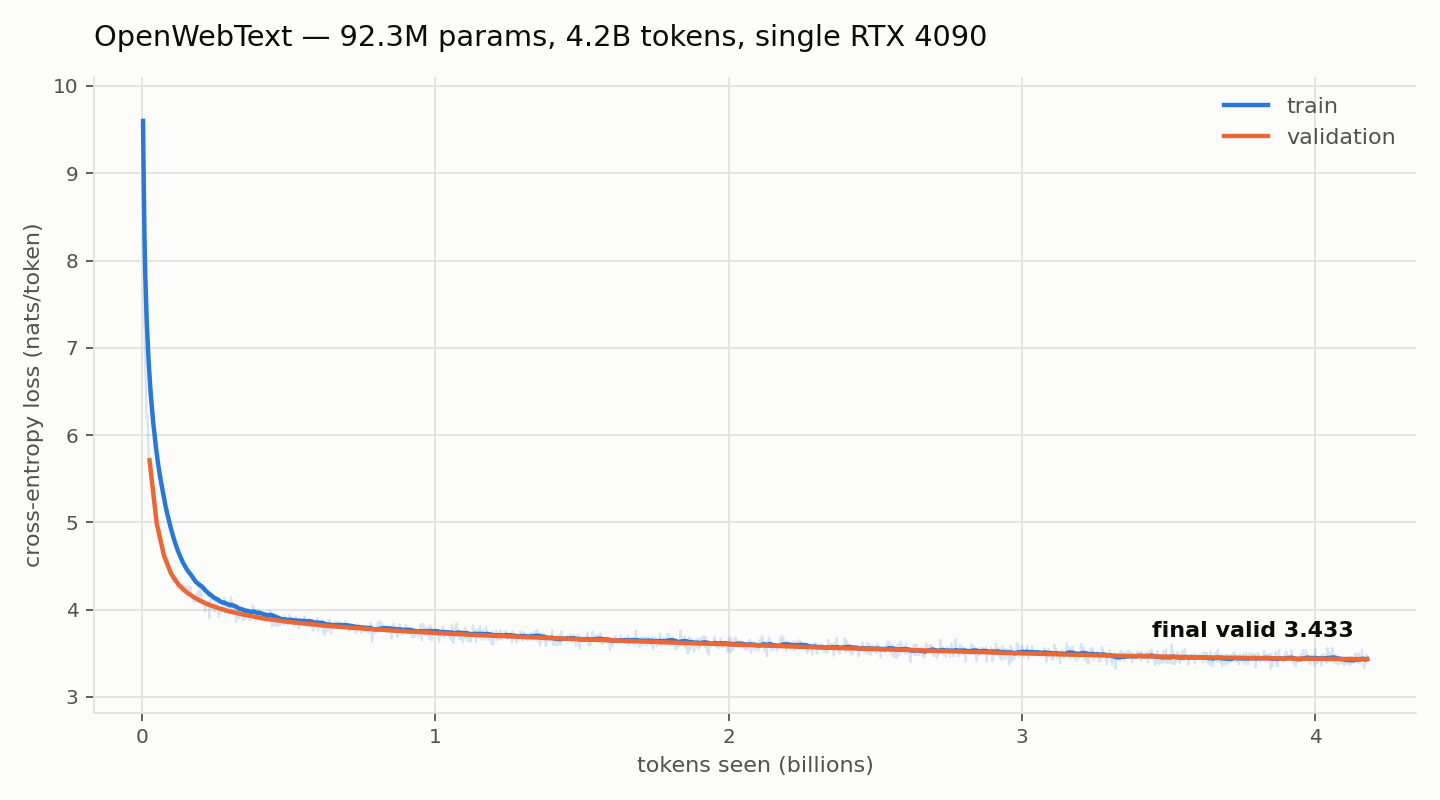
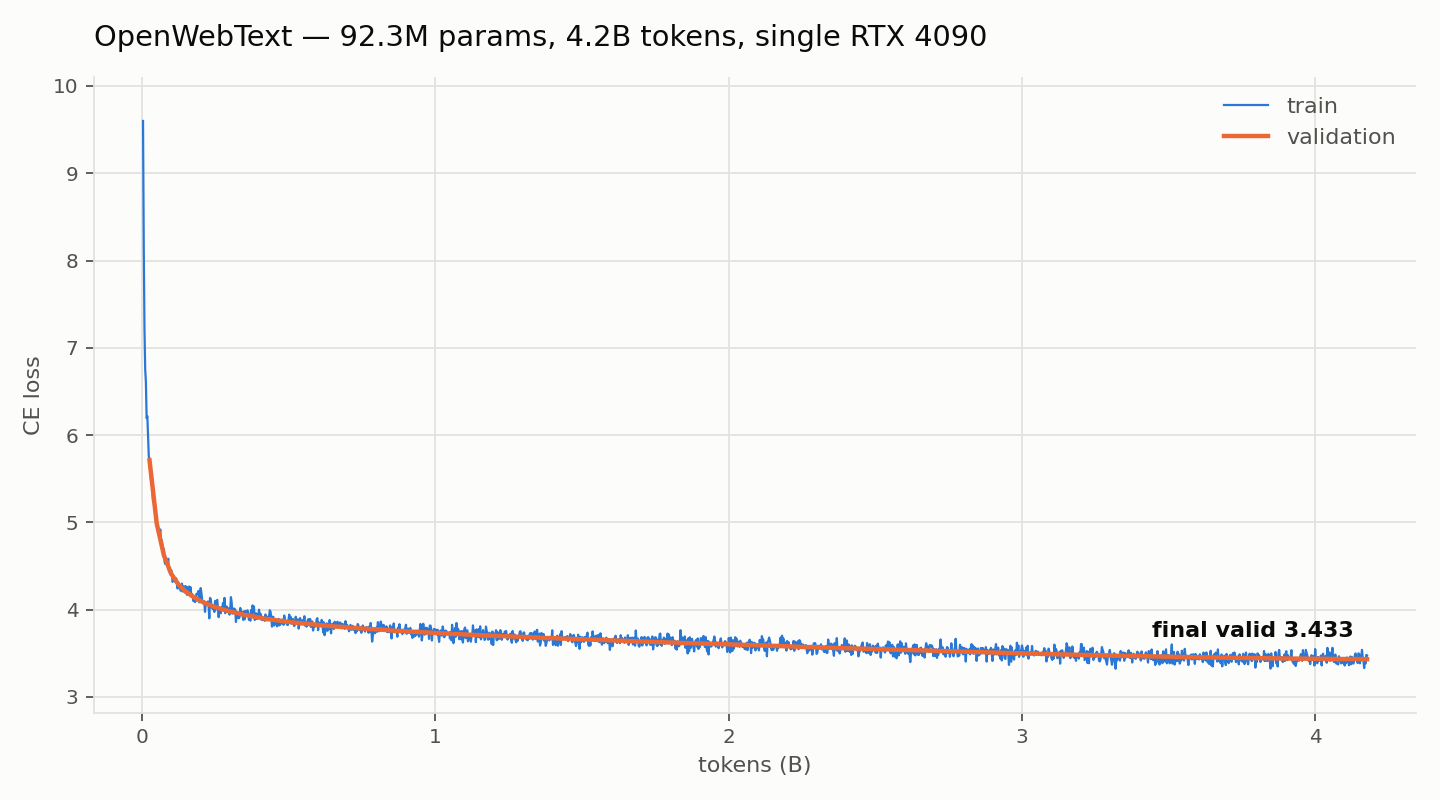
chore: plot the raw train loss instead of an EMA
Drops the ema() helper, the --smooth flag and the faint raw line the smoothed
curve was drawn over. The train series is now the logged values themselves.

The noise band is worth seeing: it shows the real batch-to-batch variance, and
the validation curve reads clearly through it without needing the raw line
pushed to 18% opacity. Axis labels shortened to match.

diff --git a/scripts/plot_loss.py b/scripts/plot_loss.py
@@ -21,16 +21,6 @@ TRAIN, VALID = "#2a78d6", "#eb6834"
 SURFACE, INK, MUTED, GRID = "#fcfcfb", "#0b0b0b", "#52514e", "#e3e2dd"
 
 
-def ema(values: list[float], alpha: float) -> list[float]:
-    """Bias-corrected EMA, so the smoothed curve does not lag at the start."""
-    out, acc, w = [], 0.0, 0.0
-    for v in values:
-        acc = alpha * v + (1 - alpha) * acc
-        w = alpha + (1 - alpha) * w
-        out.append(acc / w)
-    return out
-
-
 def load(run: Path) -> tuple[list, list, list, list, list]:
     tr_x, tr_y, va_x, va_y, toks = [], [], [], [], []
     with (run / "metrics.jsonl").open() as f:
@@ -50,7 +40,6 @@ def main() -> None:
     p = argparse.ArgumentParser(description=__doc__, formatter_class=argparse.RawDescriptionHelpFormatter)
     p.add_argument("run", type=Path, help="training output directory")
     p.add_argument("--out", type=Path, default=None, help="defaults to <run>/loss.png")
-    p.add_argument("--smooth", type=float, default=0.05, help="EMA alpha for the train curve")
     p.add_argument("--title", default=None)
     args = p.parse_args()
     out = args.out or args.run / "loss.png"
@@ -65,15 +54,14 @@ def main() -> None:
     fig.patch.set_facecolor(SURFACE)
     ax.set_facecolor(SURFACE)
 
-    ax.plot([to_b(s) for s in tr_x], tr_y, color=TRAIN, lw=1, alpha=0.18)
-    ax.plot([to_b(s) for s in tr_x], ema(tr_y, args.smooth), color=TRAIN, lw=2, label="train")
+    ax.plot([to_b(s) for s in tr_x], tr_y, color=TRAIN, lw=1, label="train")
     if va_x:
         # Marker so a run with only a couple of eval points still shows something.
         ax.plot([to_b(s) for s in va_x], va_y, color=VALID, lw=2, label="validation",
                 marker="o" if len(va_x) < 30 else None, markersize=4)
 
-    ax.set_xlabel("tokens seen (billions)", color=MUTED, fontsize=10)
-    ax.set_ylabel("cross-entropy loss (nats/token)", color=MUTED, fontsize=10)
+    ax.set_xlabel("tokens (B)", color=MUTED, fontsize=10)
+    ax.set_ylabel("CE loss", color=MUTED, fontsize=10)
     title = args.title or f"OpenWebText — {args.run.name}"
     ax.set_title(title, color=INK, fontsize=13, pad=14, loc="left")
 
